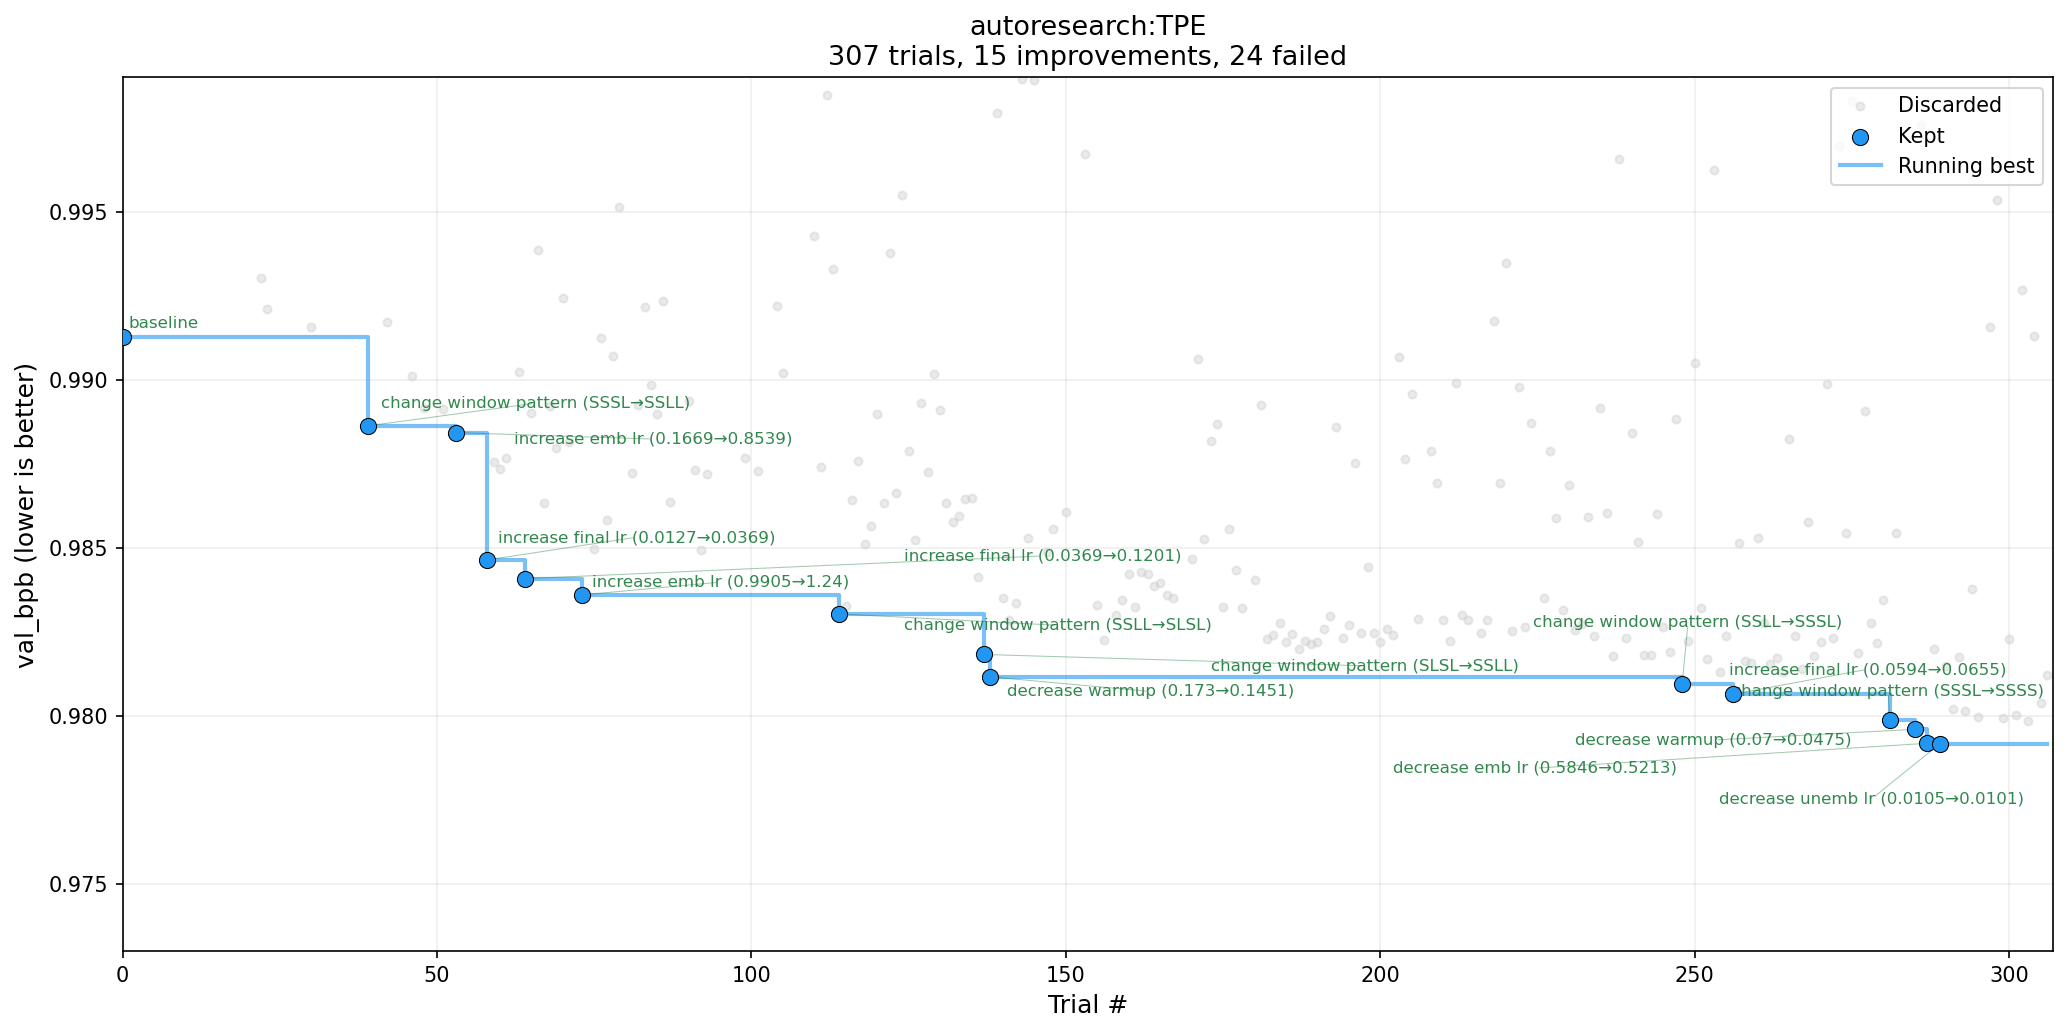
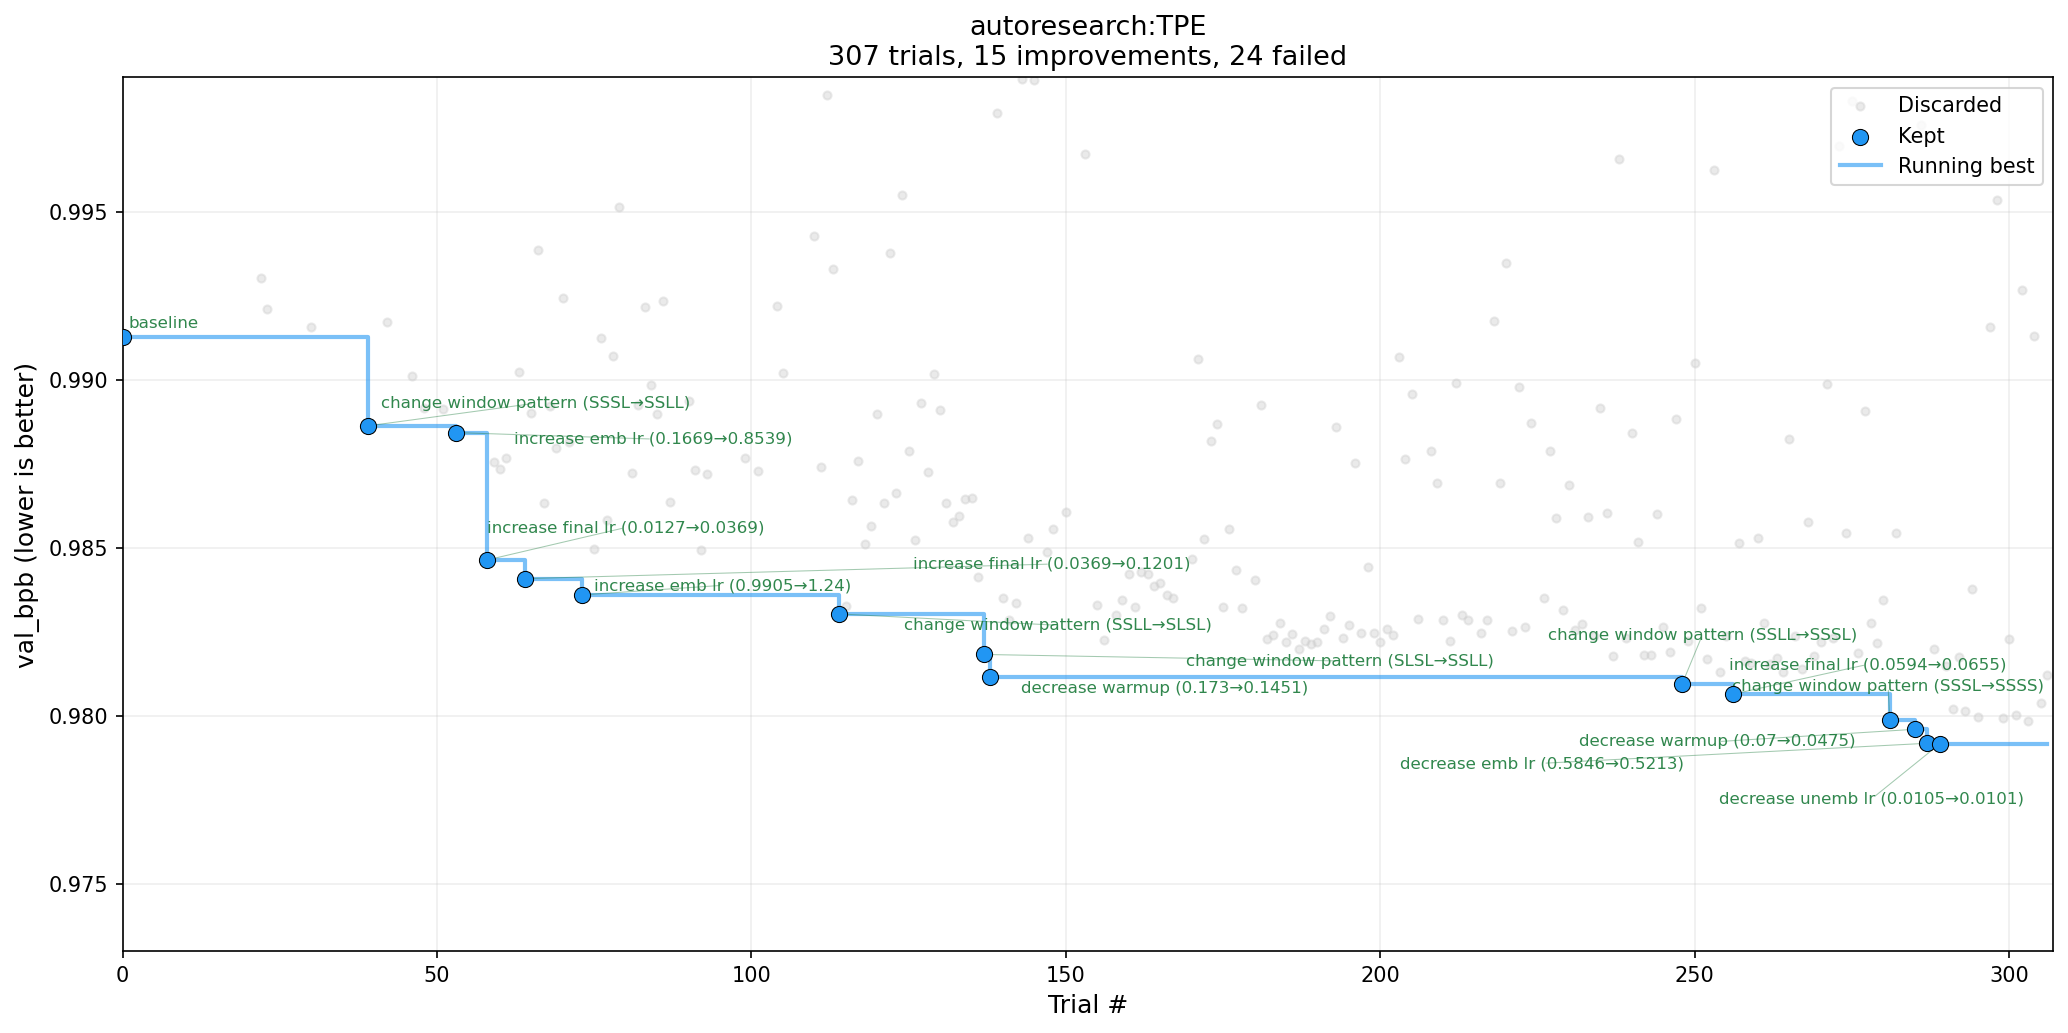
Figure 1: tighter ylim, rename to 'Classical vs LLM-based HPO'

diff --git a/scripts/plot_convergence.py b/scripts/plot_convergence.py
@@ -299,7 +299,8 @@ def plot_exp2_27b_walltime(results_dir: Path, output_path: Path):
         results_dir,
         BACKENDS_27B,
         output_path,
-        title="autoresearch:HPO Convergence",
+        title="Classical vs LLM-based HPO",
+        ylim=(0.974, 0.993),
     )
 
 
